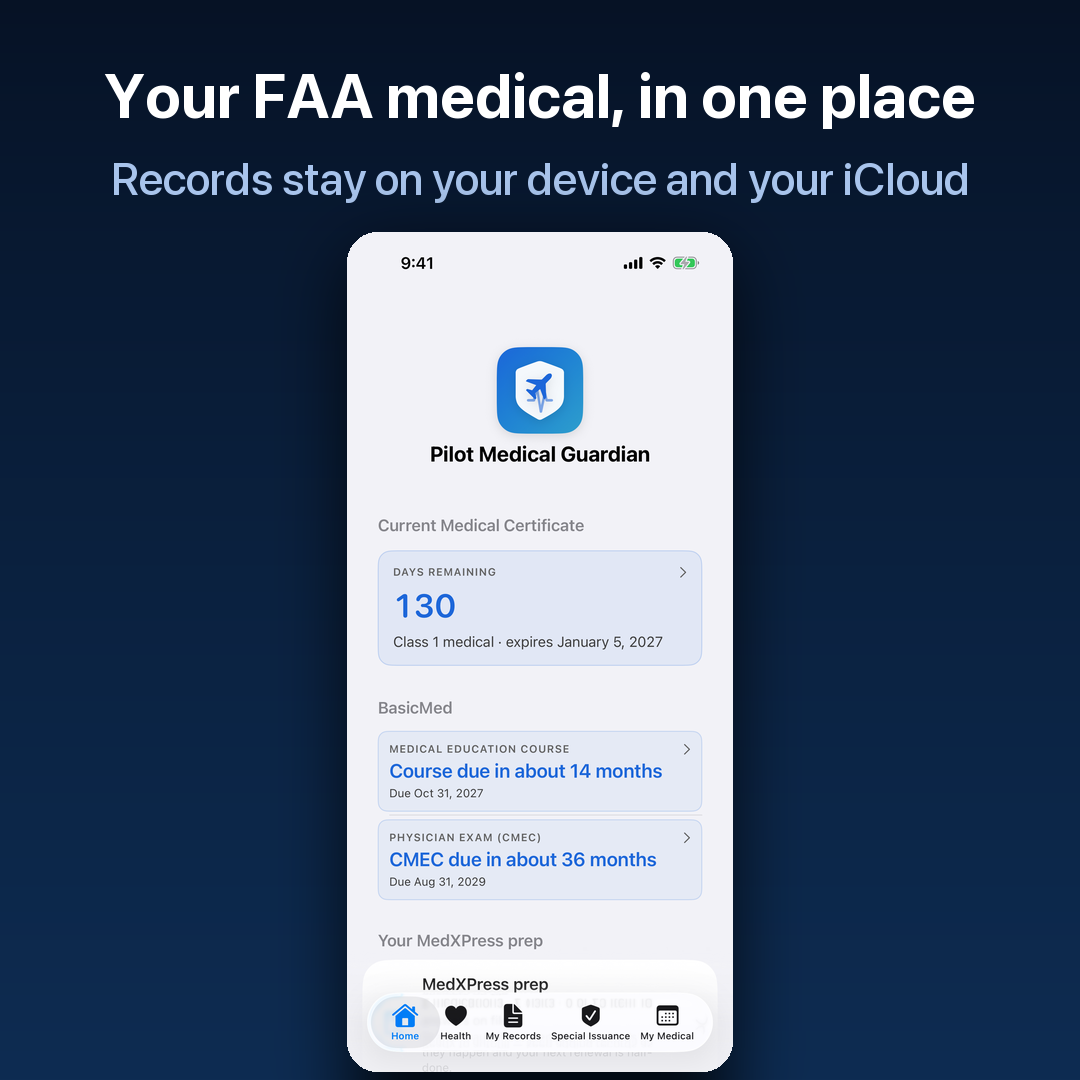
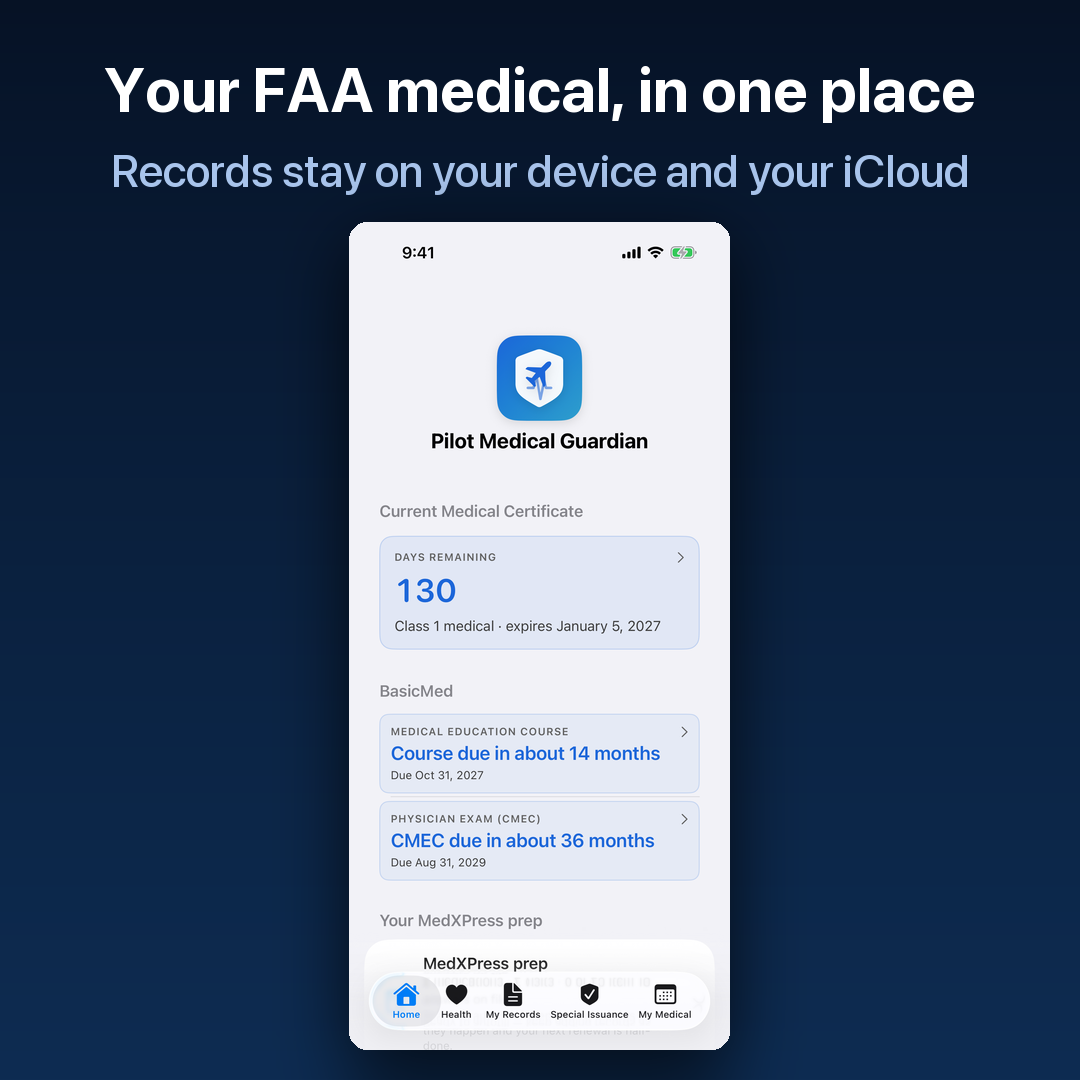
Reddit ad: Ryan picked the full phone, tab bar unclipped
Ryan's call 2026-09-03: 'in one place' has to show more than one thing. The
crop was a countdown poster; the full phone is the product, showing the
certificate clock, BasicMed, MedXPress and the tab bar. The 130 stays readable
and that is enough.

Two causes of the clipped tab bar, both fixed. Bottom margin was 8px, now 30px.
Corner radius was 30 and a real iPhone's radius scaled to this width is about
17, so the curve was eating the ends of the tab pill, which sits only ~19px in
from the screen edge. Radius is now 18.

diff --git a/screenshots/asc/build-reddit-ad-poster.py b/screenshots/asc/build-reddit-ad-poster.py
@@ -45,25 +45,33 @@ def drop(c, im, pos, blur, alpha, dy):
     c=Image.alpha_composite(c, lay.filter(ImageFilter.GaussianBlur(blur)))
     c.alpha_composite(im, pos); return c
 
-def type_block(c, l2_size):
+def type_block(c, l2_size, y1=58, y2=150):
     d=ImageDraw.Draw(c)
     f1=sf(62,"Bold")
     while d.textlength(L1,font=f1) > S-120 and f1.size>40: f1=sf(f1.size-2,"Bold")
     f2=sf(l2_size,"Medium",72)
     while d.textlength(L2,font=f2) > S-110 and f2.size>26: f2=sf(f2.size-2,"Medium",72)
-    d.text(((S-d.textlength(L1,font=f1))/2,  58), L1, font=f1, fill=(255,255,255,255))
-    d.text(((S-d.textlength(L2,font=f2))/2, 150), L2, font=f2, fill=(168,196,236,255))
+    d.text(((S-d.textlength(L1,font=f1))/2,  y1), L1, font=f1, fill=(255,255,255,255))
+    d.text(((S-d.textlength(L2,font=f2))/2, y2), L2, font=f2, fill=(168,196,236,255))
     return f1.size, f2.size
 
 def variant_full(out):
-    """A -- full phone, larger, centred. Literal spec."""
-    c=bg(); s1,s2 = type_block(c, 46)
+    """A -- full phone, larger, centred. THE ONE RYAN PICKED (2026-09-03).
+    'In one place' has to show more than one thing: certificate clock, BasicMed,
+    MedXPress, tab bar. Two fixes over the first cut, both about the tab bar:
+      * bottom margin 8px -> 30px, so the bar is not jammed on the canvas edge
+      * corner radius 30 -> 18. A real iPhone's radius scaled to this width is
+        ~17px; 30 was rounder than the device and the curve was clipping the
+        ENDS of the tab pill, which sits only ~19px in from the screen edge."""
+    c=bg(); s1,s2 = type_block(c, 46, y1=52, y2=142)
     src=Image.open(PHONE).convert("RGB")
-    h = 840; w = int(src.width * h/src.height)
-    ph = rounded(src.resize((w,h), Image.LANCZOS), 30)
-    c = drop(c, ph, ((S-w)//2, 232), 34, 190, 20)
+    h = 828; w = int(src.width * h/src.height)
+    top = 222
+    ph = rounded(src.resize((w,h), Image.LANCZOS), 18)
+    c = drop(c, ph, ((S-w)//2, top), 34, 190, 20)
     c.convert("RGB").save(f"{OUT}/{out}", quality=95)
-    print(f"  {out}: full phone {w}x{h}, L1 {s1}px, L2 {s2}px, phone {w/S*400:.0f}px at 400 wide")
+    print(f"  {out}: full phone {w}x{h} at y={top}, bottom={top+h}, margin={S-(top+h)}px, "
+          f"L1 {s1}px, L2 {s2}px, phone {w/S*400:.0f}px at 400 wide")
 
 def variant_crop(out):
     """B -- poster crop through the 130 card, bleeding off the bottom edge."""
